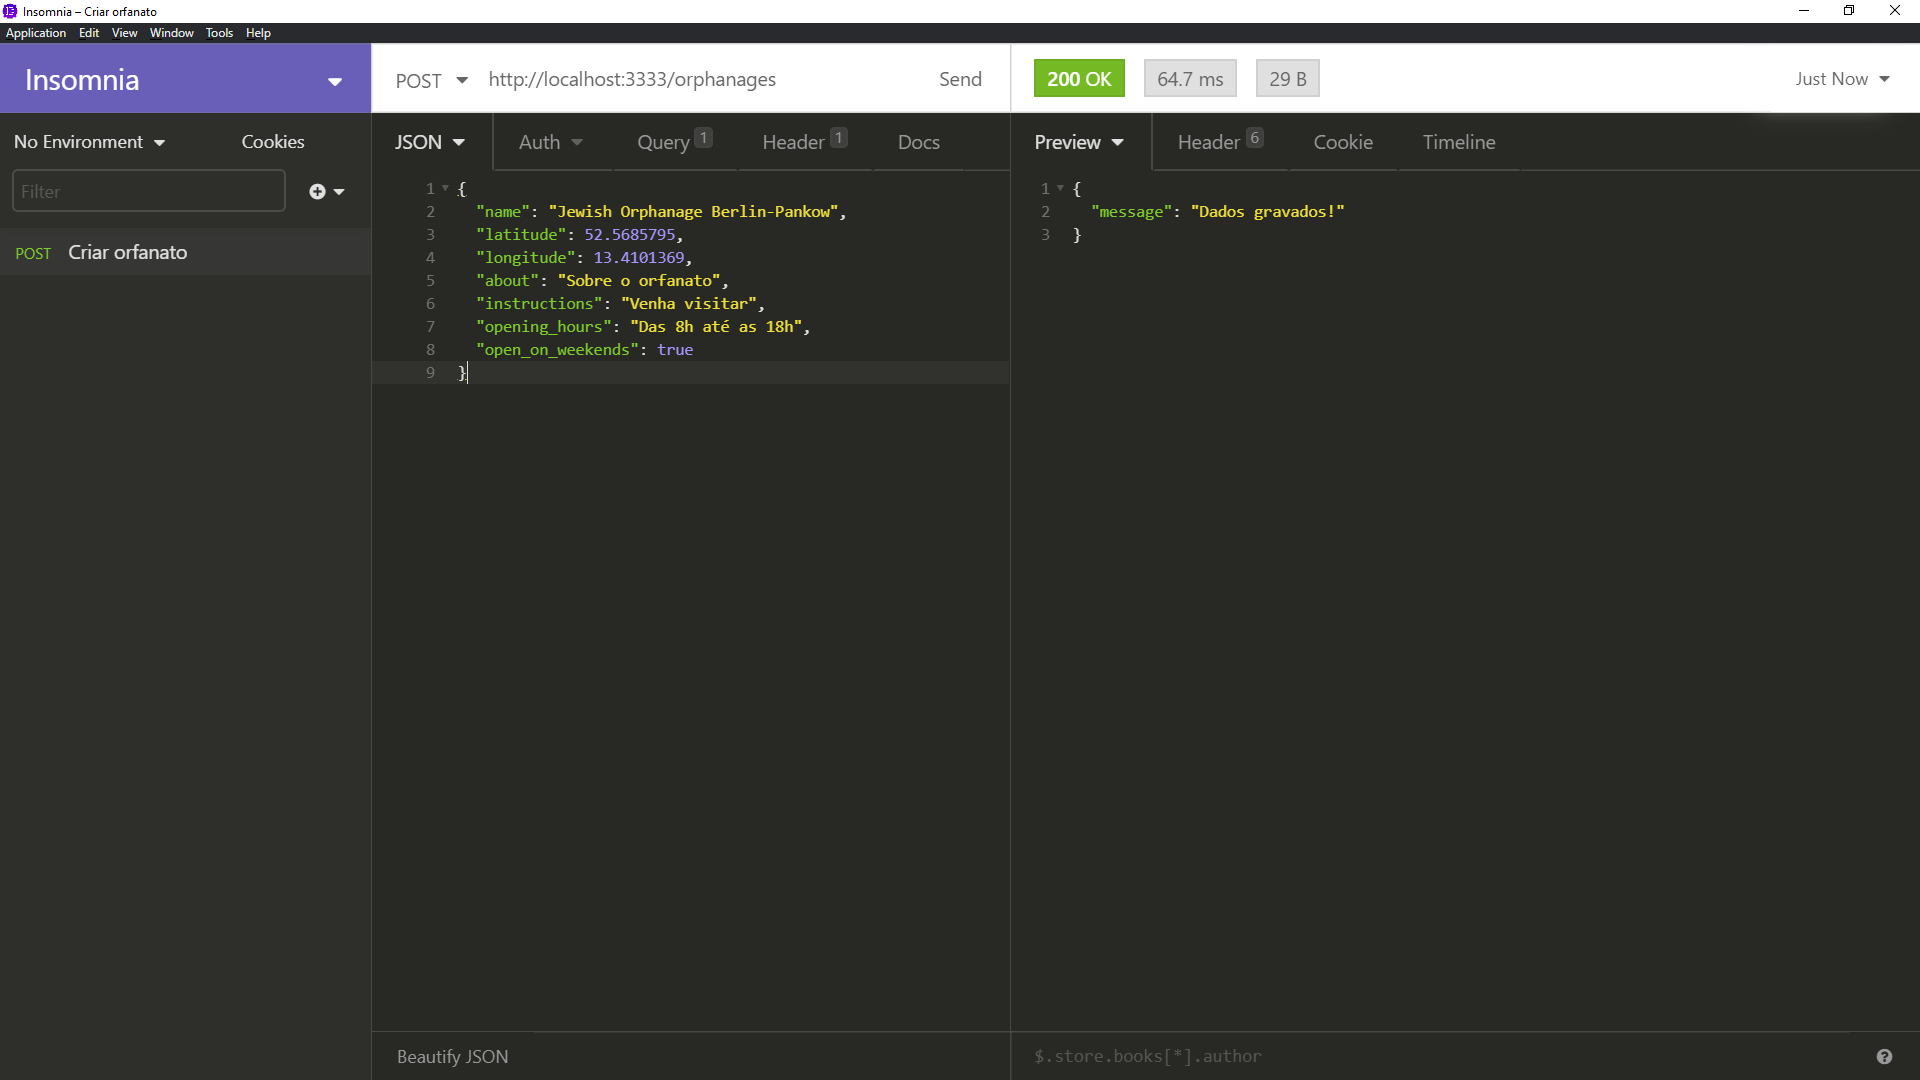
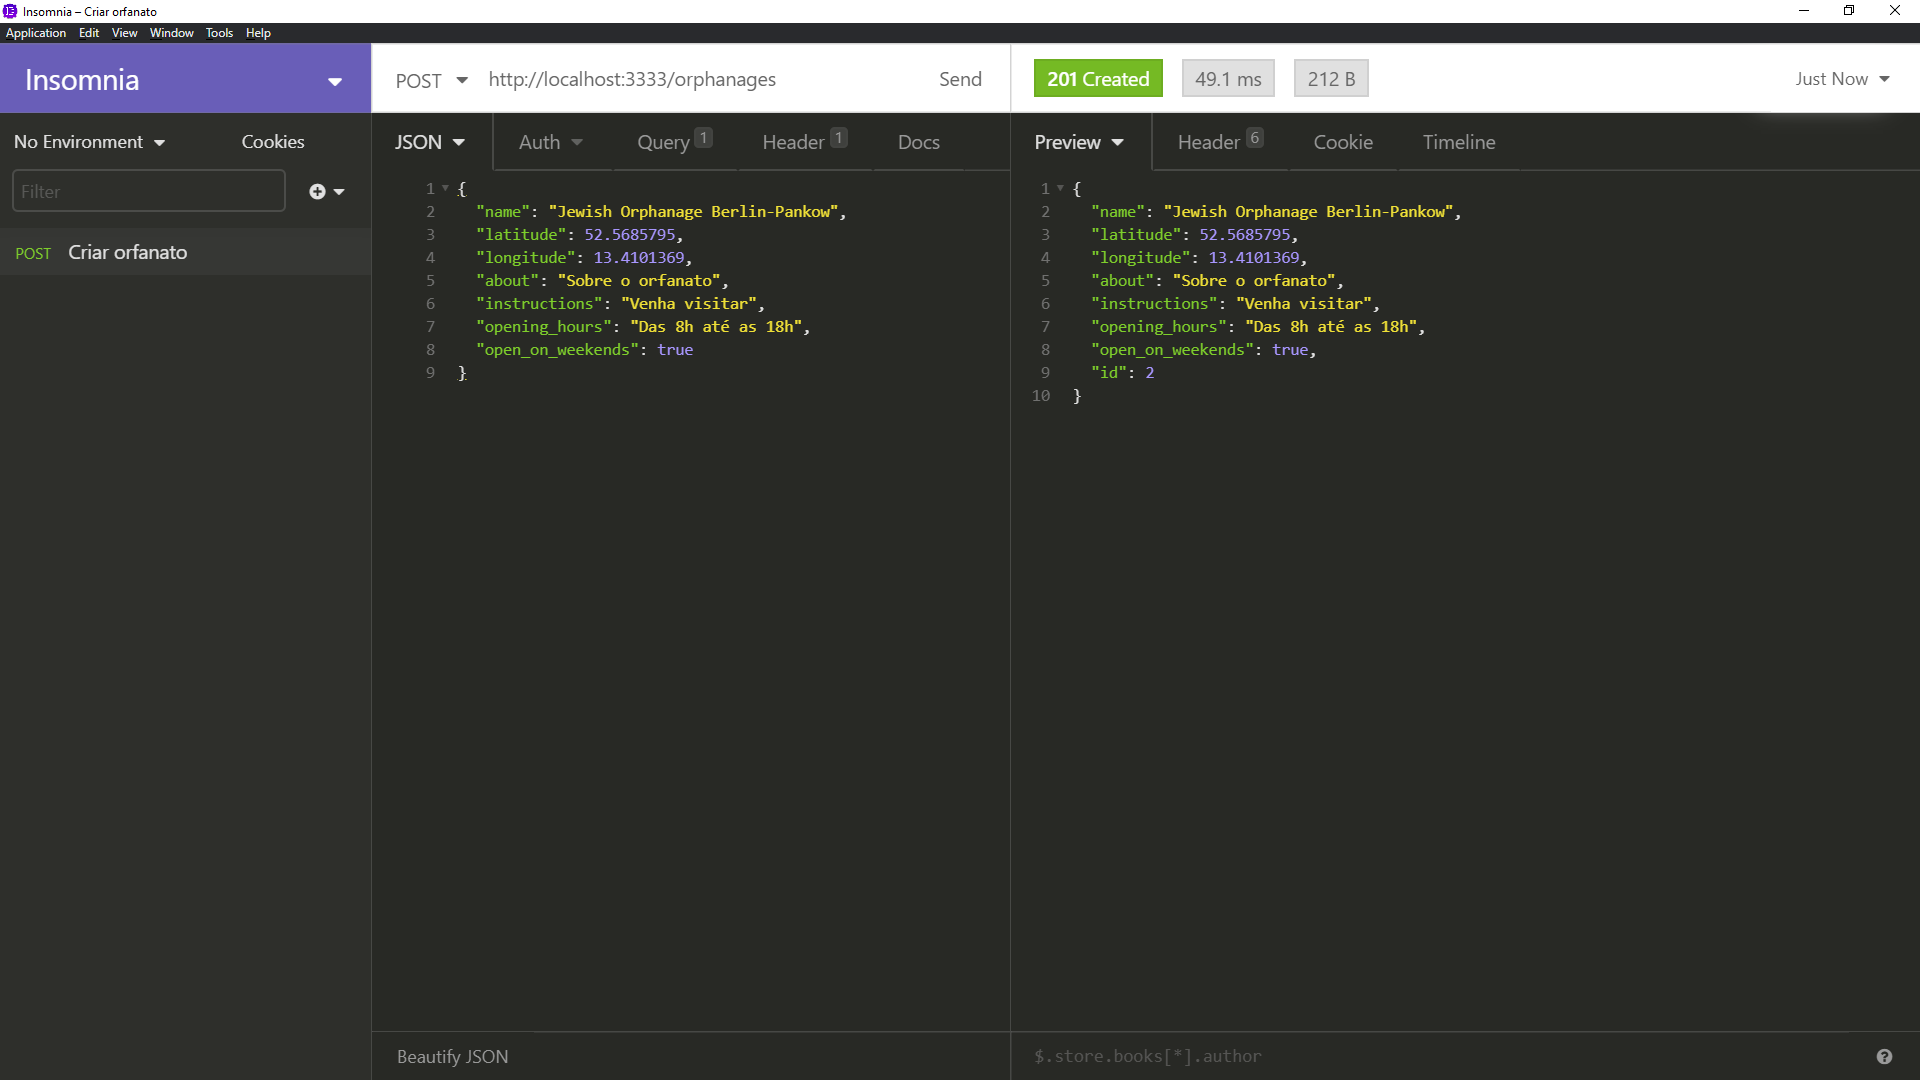
rocketseat

Changed region(s): [[0.5625, 0.1833, 0.75, 0.3361], [0.5625, 0.0306, 0.7188, 0.0917]]

diff --git a/backend/src/server.ts b/backend/src/server.ts
@@ -53,7 +53,7 @@ app.post('/orphanages', async (request, response) => {
 
     await orphanagesRepository.save(orphanage);
 
-    return response.json({ message: "Dados gravados!" });
+    return response.status(201).json(orphanage);
 });
 // resource = users ----------------------------------
 // HTTP method = GET ---------------------------------
